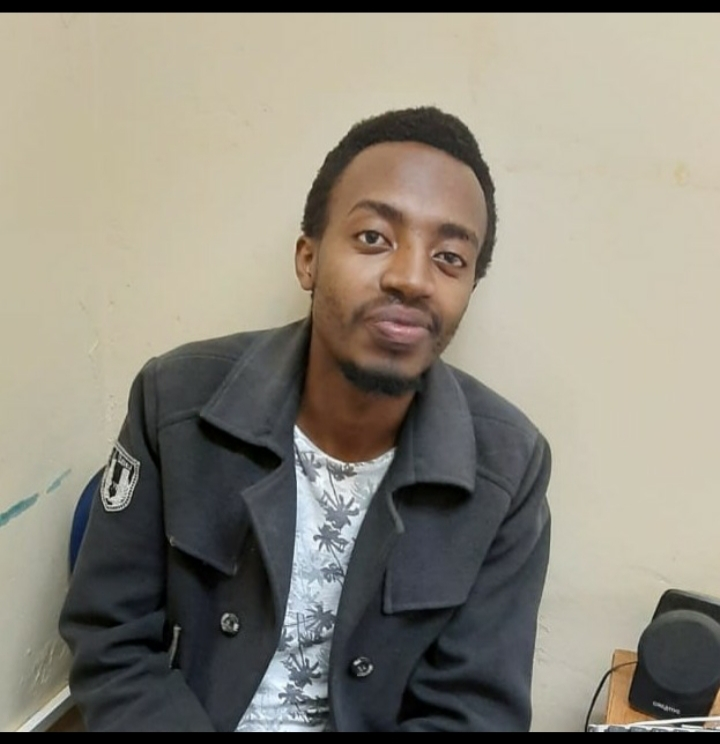
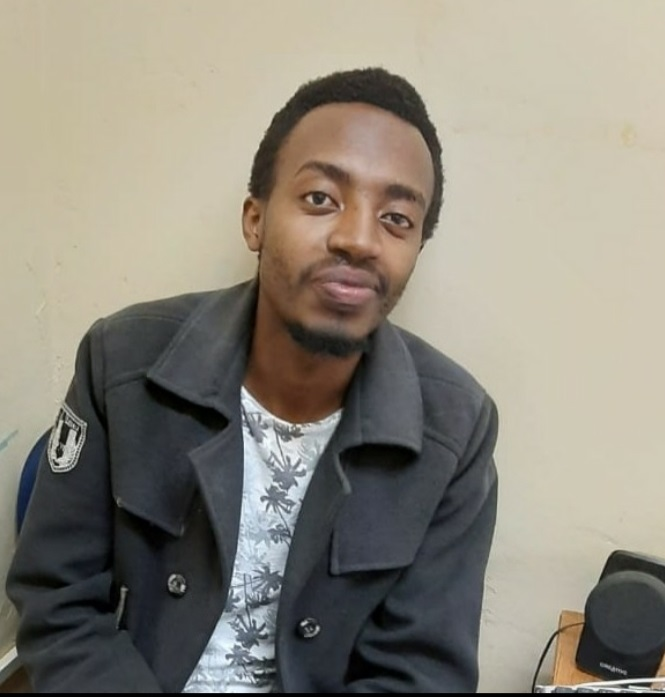
Added More Projects

diff --git a/index.html b/index.html
@@ -162,7 +162,7 @@
     <div class="section-center about-center">
       <!-- about img -->
       <article class="about-img">
-        <img src="./images/mypic2.jpg" class="hero-photo" alt="allan" />
+        <img src="./images/image3.jpeg" class="hero-photo" alt="Robotics" title="Robotics" />
       </article>
       <!-- about info -->
       <article class="about-info">
@@ -173,16 +173,20 @@
         </div>
         <!--end of section title -->
         <p>
-          Hey, My name is Allan Mwaura <a href="https://dev.to/allanmwaura">
-            <i class="fab fa-dev" title="allanmwaura's DEV Profile"></i>
-          </a>,a Software And Web Developer based in Eldoret Kenya.
-        </p>
-        <p>
-          I create Websites and Web Applications.
-        </p>
+          Hi, I’m Allan, a Software And Web Developer based in Eldoret Kenya. I’m interested in developing
+          applications that brings change to our society.
+          I’m a Fullstack Web applications developer, I specialize in PHP Laravel for Backend.</p>
         <p>
           I posses a diverse set of skills ranging from design to HTML + Bootsrap + Javascript to PHP,PYTHON custom
           WordPress CMS customization and Windows & Linux Server Adminstration.
+        </p>
+        <p>
+          I'm currently learning Vue Js,MERN stack and Docker.
+        </p>
+        <p>I’m looking to collaborate on different projects that can better my skills .
+          You can reach me via mail at allanmooker22@gmail.com <a href="https://dev.to/allanmwaura">
+            <i class="fab fa-dev" title="allanmwaura's DEV Profile"></i>
+          </a>,
         </p>
         <a href="#contact" class="btn">Connect with me</a>
       </article>
@@ -567,7 +571,8 @@
               </button>
             </a>
           </div>
-        </div><div class="project-card" id="card-4">
+        </div>
+        <div class="project-card" id="card-4">
           <div class="project-img">
             <img src="./projects/phonezone.png" alt="PhoneZone project">
           </div>
@@ -617,6 +622,7 @@
         <div class="skill-box-1">
           <img class="skill-icn" src="./logos/php.svg" height="100px" alt="php">
           <img class="skill-icn" src="./logos/javascript.svg" alt="javascript">
+
         </div>
       </article>
       <article>
@@ -648,25 +654,183 @@
     <!--end of section title -->
     <div class="section-center timeline-center">
       <!-- single timeline item -->
+      <article class="timeline-item">
+        <h4>July 2023</h4>
+        <p>
+          I developed a software for a Coffee dealer, the program tracks daily coffee submissions and generates reports at the end of the month, It also notifies the clients on how much coffee they submitted via SMS. 
+        </p>
+        <span class="number"> 14 </span>
+      </article>
+      <!-- single timeline item -->
+       <!-- single timeline item -->
+       <article class="timeline-item">
+        <h4>April 2023</h4>
+        <p>
+          I successfully developed a reseller management portal for a leading software company in Kenya. 
+        </p>
+        <span class="number"> 14 </span>
+      </article>
+      <!-- single timeline item -->
+      <article class="timeline-item">
+        <h4>June - 2022</h4>
+        <p>
+          I developed a cutting-edge Point of Sale ERP software for Beal Auto Spares,a big spares distributor
+          in Eldoret town.
+        </p>
+        <span class="number"> 13 </span>
+      </article>
+      <!-- single timeline item -->
+      <!-- single timeline item -->
+      <article class="timeline-item">
+        <h4>May - 2022</h4>
+        <p>
+          Developed and featured in more than 12 websites.It has been a very exciting experience.
+        </p>
+        <span class="number"> 12 </span>
+      </article>
+      <!-- single timeline item -->
 
       <!-- single timeline item -->
- <article class="timeline-item">
-  <h4>June - 2022</h4>
-  <p>
-I have managed to design and develop a Point of Sale software for a Beal Auto Spares,a big spares distributor in Eldoret town.
-  </p>
-  <span class="number"> 13 </span>
-</article>
-<!-- single timeline item -->
- <!-- single timeline item -->
- <article class="timeline-item">
-  <h4>May - 2022</h4>
-  <p>
-    Developed and featured in more than 12 websites.It has been a very exciting experience.
-  </p>
-  <span class="number"> 12 </span>
-</article>
-<!-- single timeline item -->
+      <article class="timeline-item">
+        <h4>May - 2021</h4>
+        <p>
+          Currently developing a website for Goshen Inn Hotel.
+        </p>
+        <span class="number"> 11 </span>
+      </article>
+      <!-- single timeline item -->
+      <!-- single timeline item -->
+      <article class="timeline-item">
+        <h4>Aprill - 2021</h4>
+        <p>
+          Created a website for yet another big hotel in Eldoret (ComfyInn Hotel).
+        </p>
+        <span class="number"> 10 </span>
+      </article>
+      <!-- single timeline item -->
+      <!-- single timeline item -->
+      <article class="timeline-item">
+        <h4>Dec - 2020</h4>
+        <p>
+          Developed a Payroll System for a 4 Star hotel in Eldoret (Sirikwa Hotel) using PHP and MySql.
+        </p>
+        <span class="number"> 9 </span>
+      </article>
+      <!-- single timeline item -->
+      <!-- single timeline item -->
+      <article class="timeline-item">
+        <h4>Nov - 2020</h4>
+        <p>
+          Got employed as a Software Developer at Projtrac Systems a.The first week wasn't that soft,switching from a
+          freelancer to a Full time Dev hasn't been easy.Am currently finishing my first project with them,done by
+          Laravel and Bootstrap.
+        </p>
+        <span class="number"> 8 </span>
+      </article>
+      <!-- single timeline item -->
+      <article class="timeline-item">
+        <h4>Oct - 2020</h4>
+        <p>
+          Worked on a client's website using Laravel Framework,It grately helped in sharpening my Laravel skills and
+          knowledge and pretty much enabled me pass my interview.
+        </p>
+        <span class="number"> 7 </span>
+      </article>
+      <!-- end of  single timeline item -->
+      <!-- end of  single timeline item -->
+      <article class="timeline-item">
+        <h4>Sept - 2020</h4>
+        <p>
+          Currently taking the #100daysofcode challenge, I have revised my skills,I have also learnt more technologies.I
+          belive this will get the best version of me.I started learning Python.My aim is to complete this challenge
+          close enough to being a Full Stack Web Developer.
+        </p>
+        <span class="number"> 6 </span>
+      </article>
+      <!-- end of  single timeline item -->
+      <!-- single timeline item -->
+      <article class="timeline-item">
+        <h4>June - 2020</h4>
+        <p>
+          I got so active on twitter,I connected with a lot of like-minded developers,I also became an active member on
+          online Forums,as a way of giving back to the society.
+        </p>
+        <span class="number">5</span>
+      </article>
+      <!-- end of  single timeline item -->
+      <!-- single timeline item -->
+      <article class="timeline-item">
+        <h4>Late - 2019</h4>
+        <p>
+          My journey was smooth,getting gigs here and there and also continuing learning new skills and technologies,I
+          dived deep into JavaScript, and had to choose a Framework that I could pursue,I decided to take on VueJs,which
+          I found Interesting.
+        </p>
+        <span class="number"> 4 </span>
+      </article>
+      <!-- end of  single timeline item -->
+      <!-- single timeline item -->
+      <article class="timeline-item">
+        <h4> Mid - 2019</h4>
+        <p>
+          After observing the trends,I learnt that I had to learn Frameworks,I started with Laravel(PHP a Framework) ,It
+          was really nice getting into OOP,I now develop web apps that consume API's.
+        </p>
+        <span class="number"> 3 </span>
+      </article>
+      <!-- end of  single timeline item -->
+      <!-- single timeline item -->
+      <article class="timeline-item">
+        <h4>2018</h4>
+        <p>
+          I continued learing new skills,I started working on PHP and MYSQL.After practising for months,I could develop
+          web applications for clients. </p>
+        <span class="number"> 2 </span>
+      </article>
+      <!-- end of  single timeline item -->
+      <!-- single timeline item -->
+      <article class="timeline-item">
+        <h4>2017</h4>
+        <p>
+          My Journey started here, I begun with HTML + CSS,I created a number of static webpages then learnt Javascript
+          ,this enabled in developing dynamic pages,which I still develop todate.
+        </p>
+        <span class="number"> 1 </span>
+      </article>
+      <!-- end of  single timeline item -->
+    </div>
+  </section>
+  <!--end of  timeline -->
+  <!-- timeline -->
+  <section class="section timeline">
+    <!-- section title -->
+    <div class="section-title">
+      <h2 class="section-primary">timeline</h2>
+      <div class="underline"></div>
+    </div>
+    <!--end of section title -->
+    <div class="section-center timeline-center">
+      <!-- single timeline item -->
+
+      <!-- single timeline item -->
+      <article class="timeline-item">
+        <h4>June - 2022</h4>
+        <p>
+          I developed a cutting-edge Point of Sale ERP software for Beal Auto Spares,a big spares distributor
+          in Eldoret town.
+        </p>
+        <span class="number"> 13 </span>
+      </article>
+      <!-- single timeline item -->
+      <!-- single timeline item -->
+      <article class="timeline-item">
+        <h4>May - 2022</h4>
+        <p>
+          Developed and featured in more than 12 websites.It has been a very exciting experience.
+        </p>
+        <span class="number"> 12 </span>
+      </article>
+      <!-- single timeline item -->
 
       <!-- single timeline item -->
       <article class="timeline-item">
